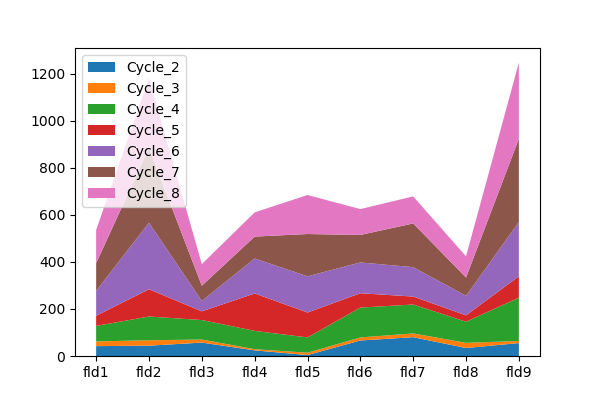
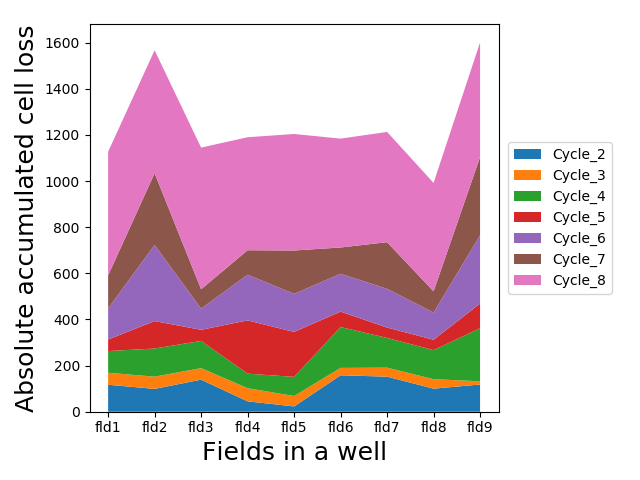
Adjusted plotting behavior in non-interactive mode

diff --git a/cycifsuite/detect_lost_cells.py b/cycifsuite/detect_lost_cells.py
@@ -175,7 +175,7 @@ def find_elbow(x, y, left_stepping=False):
     return elbow_idx, angle
 
 
-def plot_elbow(x, y, angle, elbow_idx, color='red'):
+def plot_elbow(x, y, angle, elbow_idx, color='red', figname=None):
     fig, axes = plt.subplots(1, 2, sharex=True, figsize=(12, 6))
     axes = axes.ravel()
     threshold_plot = axes[0]
@@ -192,7 +192,12 @@ def plot_elbow(x, y, angle, elbow_idx, color='red'):
     angle_plot.plot([x[elbow_idx], x[elbow_idx]], [min(angle), max(angle)],
                     color=color, linestyle='dashed')
     angle_plot.set_ylabel('Angles formed by 3 consecutive points')
-    plt.show()
+    # save plots
+    if figname is not None:
+        plt.savefig(figname)
+        plt.close()
+    else:
+        plt.show()
 
 
 def ROC_lostcells(expr_DAPIs, cutoff_min=1, cutoff_max=3,
@@ -263,7 +268,7 @@ def ROC_lostcells(expr_DAPIs, cutoff_min=1, cutoff_max=3,
     # https://pdfs.semanticscholar.org/25d3/84f032b4d0d55019de354e32675d329f98df.pdf
     elbow_idx, angle = find_elbow(x, y, left_stepping)
     # Plotting
-    plot_elbow(x, y, angle, elbow_idx)
+    plot_elbow(x, y, angle, elbow_idx, figname=figname)
     # give the option to have some user adjustment for the threshold.
     if not automatic:
         while True:
@@ -282,13 +287,9 @@ def ROC_lostcells(expr_DAPIs, cutoff_min=1, cutoff_max=3,
                 print('Use manual input elbow at {:.2f}'.format(elbow_x))
                 break
         # new threshold plot
-        plot_elbow(x, y, angle, elbow_idx, 'green')
+        plot_elbow(x, y, angle, elbow_idx, 'green', figname=figname)
     else:
         elbow_x = x[elbow_idx]
-    # save plots
-    if figname is not None:
-        plt.savefig(figname)
-        plt.close()
     return x, y, elbow_x
 
 
@@ -444,6 +445,7 @@ def plot_lost_cell_per_cycle_stacked_area(lc_cycle, metadata=None, in_fraction=F
     plt.xlabel('Fields in a well', fontsize=18)
     plt.ylabel('Absolute accumulated cell loss', fontsize=18)
     if figname is not None:
+        plt.tight_layout()
         plt.savefig(figname)
         plt.close()
     else:

diff --git a/example_qc.py b/example_qc.py
@@ -1,0 +1,18 @@
+from cycifsuite.detect_lost_cells import ROC_lostcells, get_lost_cells, plot_lost_cell_per_cycle_stacked_area
+import pandas as pd
+
+raw_qc_expr_data = pd.read_csv(
+    'example_input/sample_raw_data_for_QC.csv', index_col=0)
+raw_qc_expr_data = raw_qc_expr_data.iloc[:, :9]
+# cycle difference thresholding
+_, _, t_c = ROC_lostcells(raw_qc_expr_data.iloc[:, 1:], cutoff_min=0, cutoff_max=1,
+                          steps=50, filtering_method='cycle_diff', figname='example_output/Cycle difference thresholding.png')
+# background thresholding
+_, _, t_bgnd = ROC_lostcells(raw_qc_expr_data, cutoff_min=0, cutoff_max=5,
+                             steps=50, figname='example_output/Background thresholding.png')
+# get lost cells.
+df_lc_cv, _ = get_lost_cells(
+    raw_qc_expr_data.iloc[:, 1:], t_c, 8, 'cycle_diff')
+# ploting lost cells by fields
+plot_lost_cell_per_cycle_stacked_area(
+    df_lc_cv, figname='example_output/accumulated cell loss by cycle.png')
